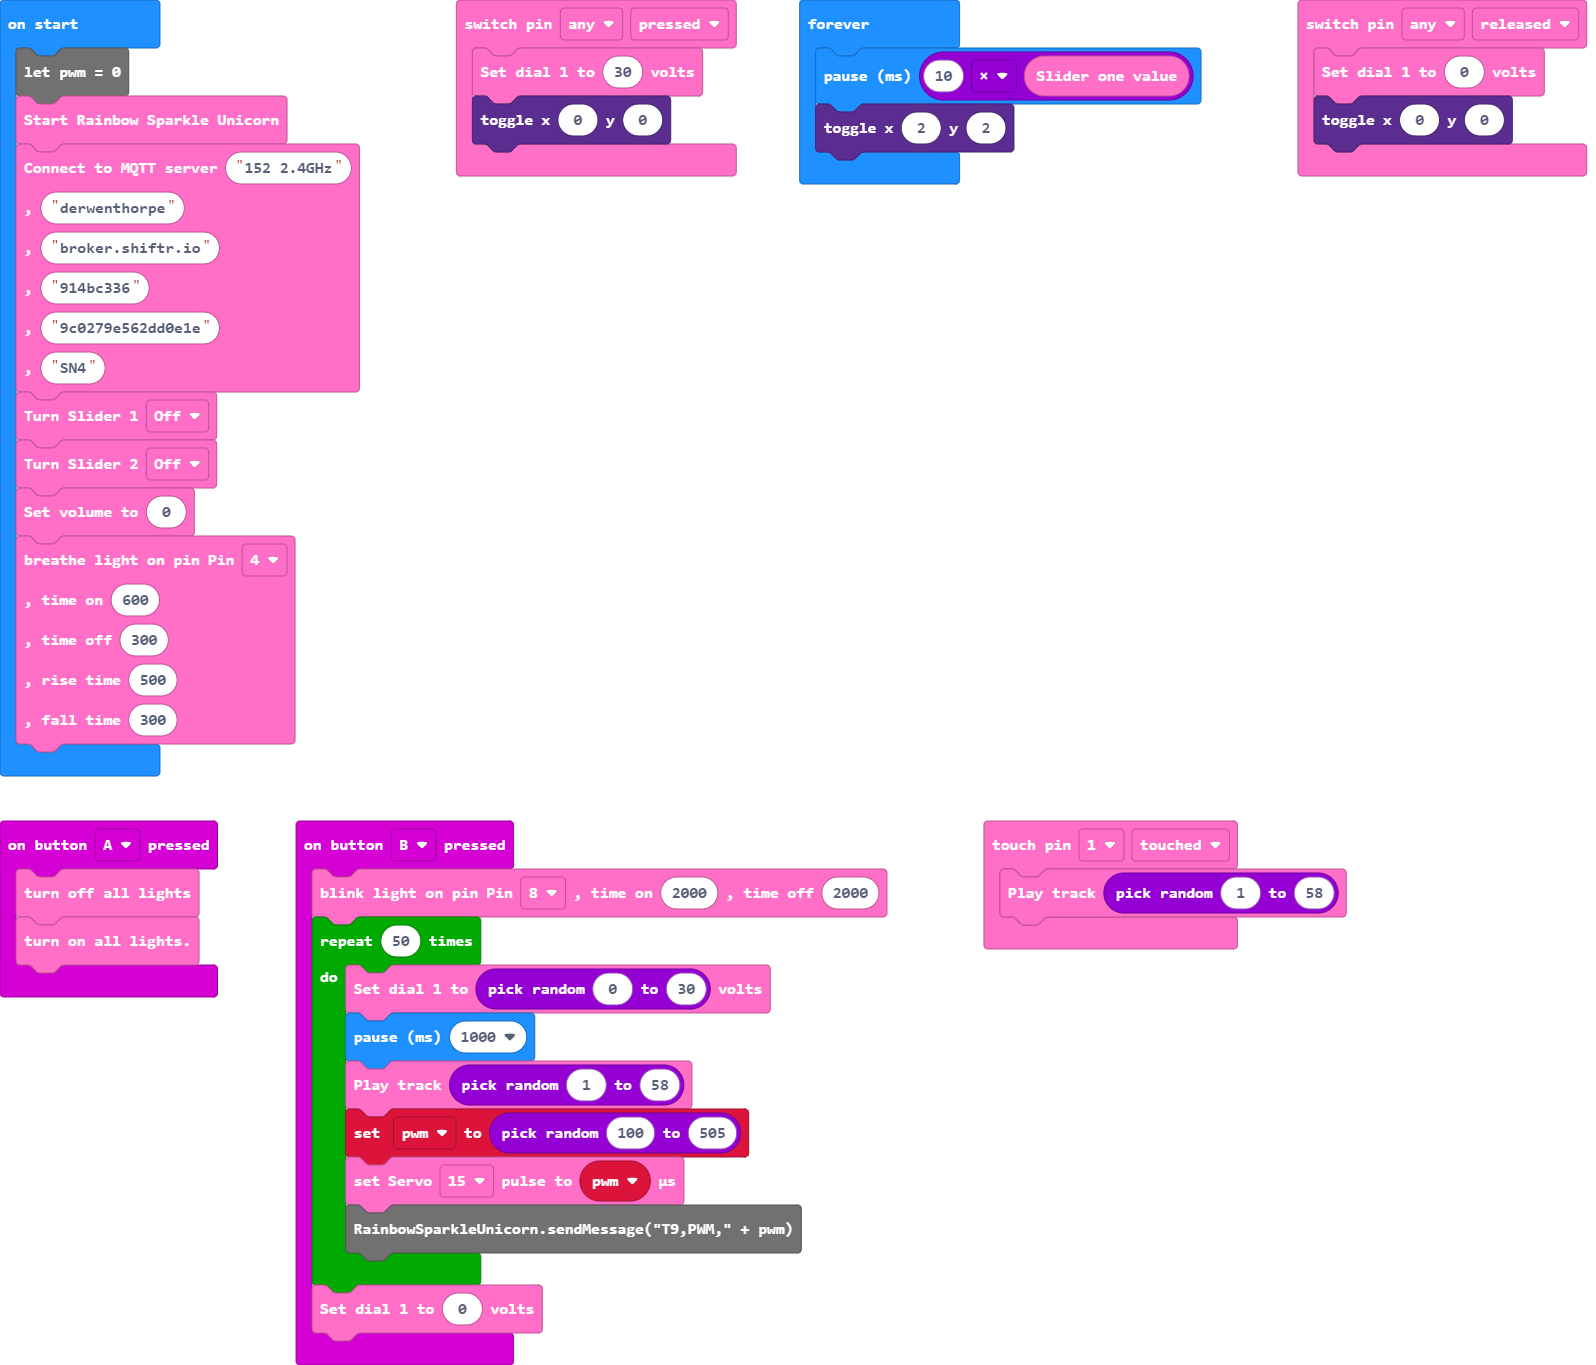
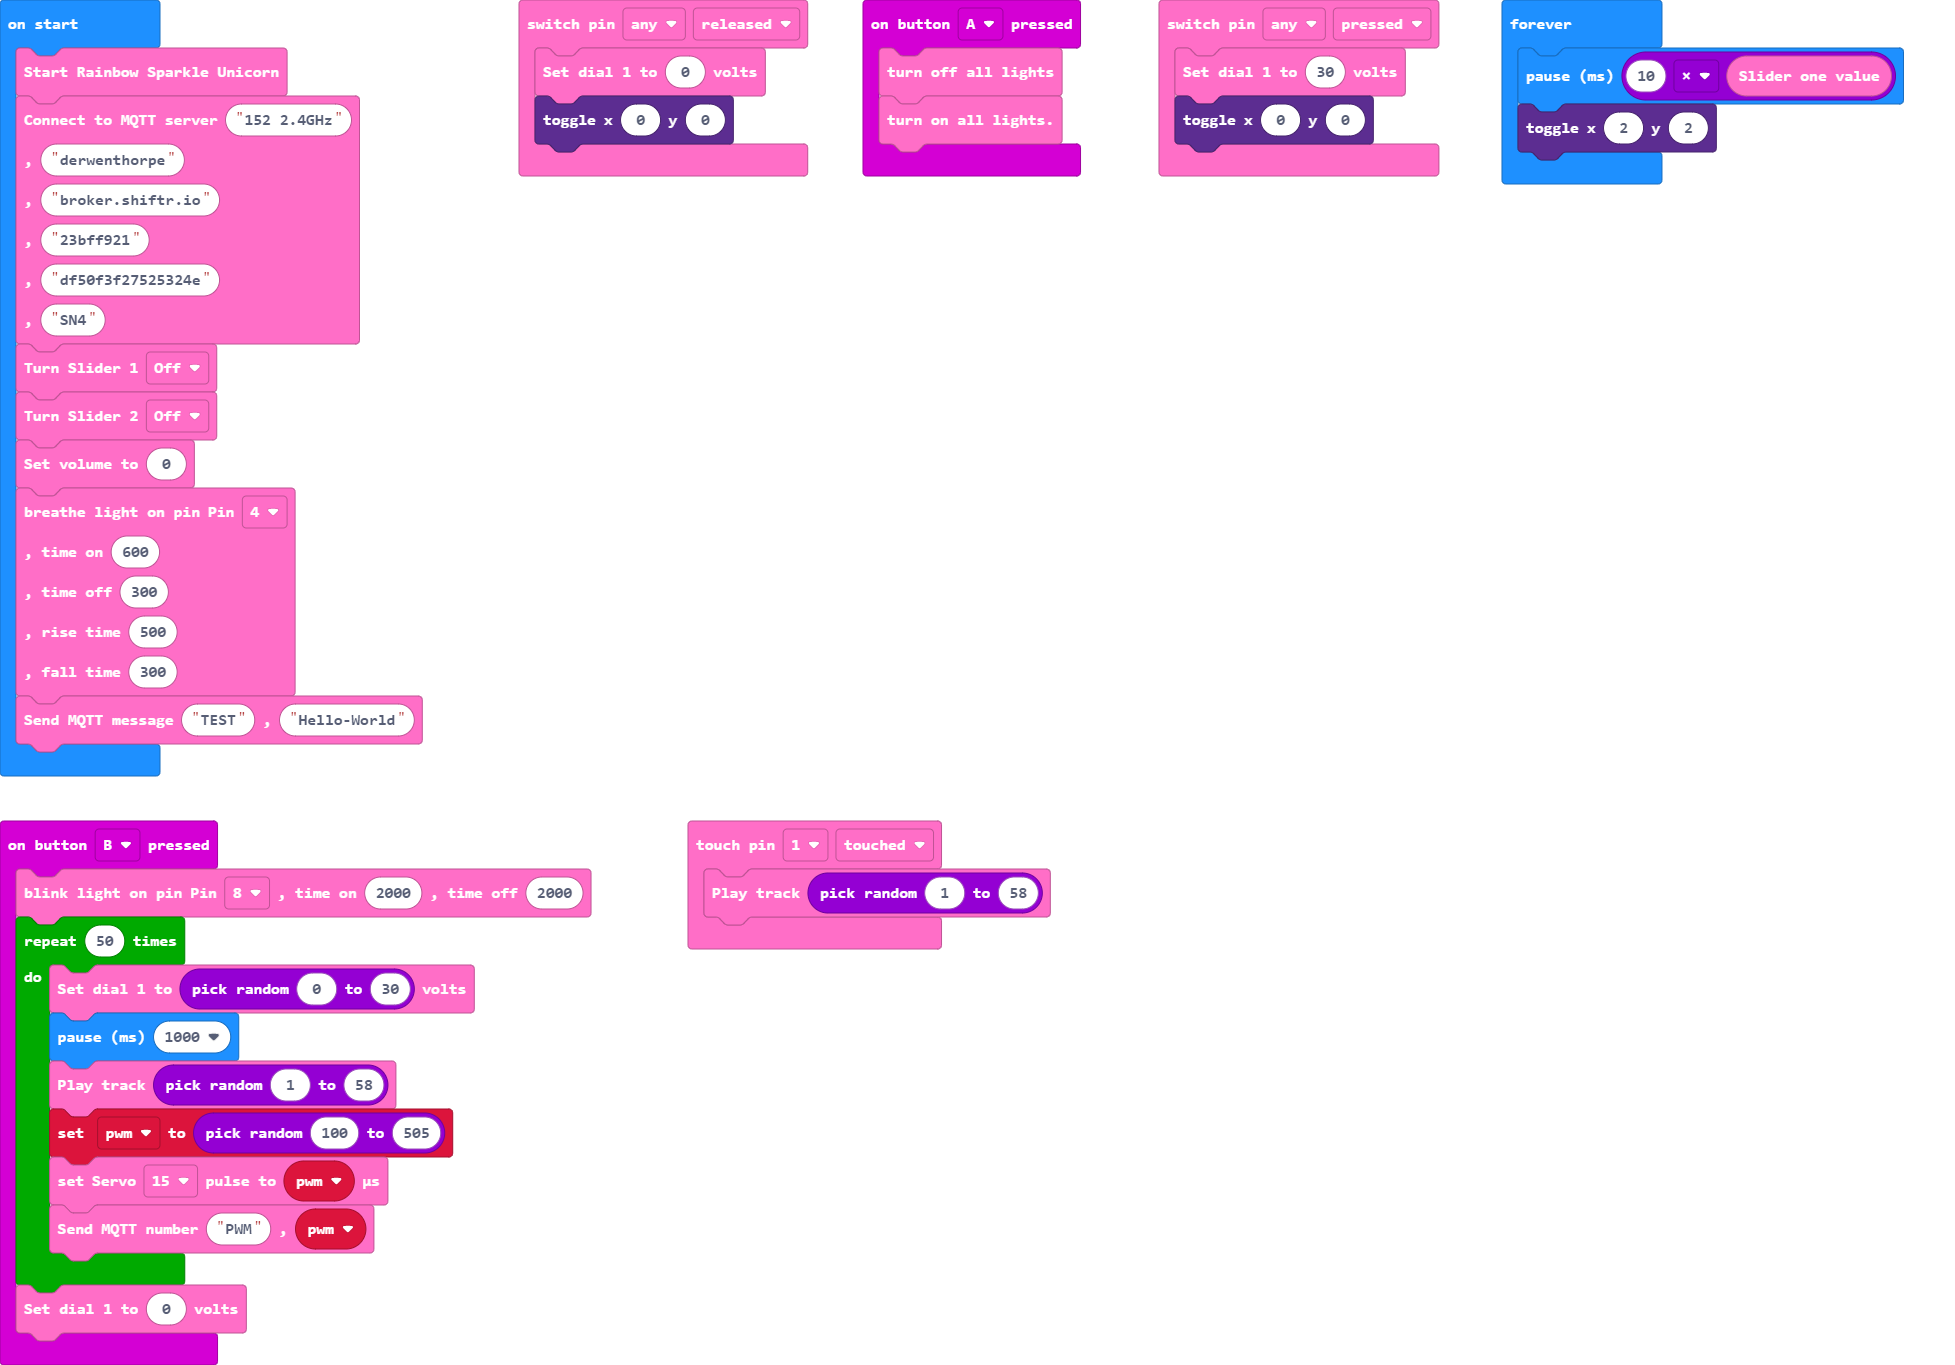
Update main.blocks, main.ts, sound.ts, ESP32.ts, constants.ts, UART.ts, MQTT.ts

Changed region(s): [[0.0, 0.0, 1.0, 1.0], [0.614, 0.5846, 0.8596, 0.7077]]

diff --git a/sound.ts b/sound.ts
@@ -1,4 +1,5 @@
 
+
 namespace RainbowSparkleUnicorn {
 
     /**
@@ -10,6 +11,7 @@ namespace RainbowSparkleUnicorn {
     //% volume.min=0 volume.max=30
     export function setVolume(volume: number) {
         const clippedVolume = Math.min(Math.max(volume, 0), 30);
+        dfplayerVolume = clippedVolume;
         sendMessage("Z1," + clippedVolume)
     }
 
@@ -22,6 +24,7 @@ namespace RainbowSparkleUnicorn {
     //% block="Play track $track"
     //% track.min=0 track.max=2999
     export function playTrack(track: number) {
+        dfplayerTrack = track;
         sendMessage("Z4," + track)
     }
 
@@ -31,6 +34,7 @@ namespace RainbowSparkleUnicorn {
     //% subcategory="Sound"      
     //% block="Increase volume"
     export function increaseVolume() {
+        dfplayerVolume = Math.min(Math.max(dfplayerVolume+1, 0), 30);
         sendMessage("Z2")
     }
 
@@ -40,6 +44,7 @@ namespace RainbowSparkleUnicorn {
     //% subcategory="Sound"      
     //% block="Decrease volume"
     export function decreaseVolume() {
+        dfplayerVolume = Math.min(Math.max(dfplayerVolume-1, 0), 30);
         sendMessage("Z3")
     }
 
@@ -68,8 +73,24 @@ namespace RainbowSparkleUnicorn {
         return dfplayerBusy;
     }
 
+     /**
+     * Returns the current volume
+     */
+    //% subcategory="Sound"
+    //% block="current volume"
+    export function volume(): number {
+        return dfplayerVolume;
+    }   
 
-  export let dfplayerBusy: boolean
+
+     /**
+     * Returns the current track
+     */
+    //% subcategory="Sound"
+    //% block="current track"
+    export function track(): number {
+        return dfplayerTrack;
+    }   
 
     /**
    * Do something when a sound track starts/stops.

diff --git a/UART.ts b/UART.ts
@@ -1,6 +1,6 @@
 namespace RainbowSparkleUnicorn {
 
-    export function sendMessage(message: string): void {
+   export function sendMessage(message: string): void {
         serial.writeLine(message);
      }
 
@@ -18,6 +18,13 @@ namespace RainbowSparkleUnicorn {
            
             control.raiseEvent(RAINBOW_SPARKLE_UNICORN_SOUND_BUSY, value)
         }
+        else if (message.indexOf("A2") == 0) {
+            dfplayerVolume = parseInt(message.split(",")[1]);
+        }  
+        else if (message.indexOf("A3") == 0) {
+            dfplayerTrack = parseInt(message.split(",")[1]);
+        }  
+
         else if (message.indexOf("B1") == 0) {
             const pin = parseInt(message.split(",")[1]);
 
@@ -82,8 +89,17 @@ namespace RainbowSparkleUnicorn {
             const pin = parseInt(message[1]);
 
             control.raiseEvent(RAINBOW_SPARKLE_UNICORN_MOTION_HALTED,pin);
-           
        }   
+      else if (message.indexOf("G1") == 0) {
+
+            IPAddress = message[1];
+
+            //https://gist.github.com/jppommet/5708697
+            const IPasNumber = IPAddress.split('.').reduce(function(ipInt, octet) { return (ipInt<<8) + parseInt(octet, 10)}, 0) >>> 0;
+
+            control.raiseEvent(RAINBOW_SPARKLE_UNICORN_IP,IPasNumber);           
+       }   
+
     }  catch(err) {   
      sendMessage(err.message);
     }   

diff --git a/MQTT.ts b/MQTT.ts
@@ -10,6 +10,7 @@ namespace RainbowSparkleUnicorn {
 
         //TODO: improve this!
         WiFiName = WiFiName.split(' ').join('PPP');
+        WiFiPassword = WiFiPassword.split(' ').join('PPP');        
 
         sendMessage("T1," + WiFiName);
         sendMessage("T2," + WiFiPassword);
@@ -22,7 +23,7 @@ namespace RainbowSparkleUnicorn {
         sendMessage("T8");
         basic.pause(1000);        
     }
-
+    
     //% subcategory="MQTT" 
     //% block="Send MQTT message $topic, $message"
     export function sendMQTTMessage(topic: string, message: string) {
@@ -33,5 +34,18 @@ namespace RainbowSparkleUnicorn {
 
         sendMessage("T9," + topic + "," + message);
     }
+
+    //% subcategory="MQTT" 
+    //% block="Send MQTT number $topic, $message"
+    export function sendMQTTNumber(topic: string, message: number) {
+
+        //TODO: improve this!
+        //topic = topic.split(' ').join('PPP');
+        //message = message.split(' ').join('PPP');
+
+        sendMessage("T9," + topic + "," + message);
+    }   
+
+
 
 }

diff --git a/main.ts b/main.ts
@@ -17,7 +17,7 @@ input.onButtonPressed(Button.B, function () {
         RainbowSparkleUnicorn.playTrack(randint(1, 58))
         pwm = randint(100, 505)
         RainbowSparkleUnicorn.setPulse(Servo.S15, pwm)
-        RainbowSparkleUnicorn.sendMessage("T9,PWM," + pwm)
+        RainbowSparkleUnicorn.sendMQTTNumber("PWM", pwm)
     }
     RainbowSparkleUnicorn.dial1(0)
 })
@@ -31,8 +31,8 @@ RainbowSparkleUnicorn.connectToInterWeb(
 "152 2.4GHz",
 "derwenthorpe",
 "broker.shiftr.io",
-"914bc336",
-"9c0279e562dd0e1e",
+"23bff921",
+"df50f3f27525324e",
 "SN4"
 )
 RainbowSparkleUnicorn.turnSlider1(OnOff.OFF)
@@ -45,6 +45,7 @@ Breathable.Breathable4,
 500,
 300
 )
+RainbowSparkleUnicorn.sendMQTTMessage("TEST", "Hello-World")
 basic.forever(function () {
     basic.pause(10 * RainbowSparkleUnicorn.Slider1())
     led.toggle(2, 2)

diff --git a/constants.ts b/constants.ts
@@ -11,3 +11,14 @@ let RAINBOW_SPARKLE_UNICORN_SWITCH_PRESSED = 2155
 let RAINBOW_SPARKLE_UNICORN_SWITCH_RELEASED = 2156
 let RAINBOW_SPARKLE_UNICORN_MOTION_STOPPED = 2157
 let RAINBOW_SPARKLE_UNICORN_MOTION_HALTED = 2158
+let RAINBOW_SPARKLE_UNICORN_IP = 2159
+
+
+let IPAddress:string = "0.0.0.0";
+
+let dfplayerBusy: boolean = false;
+let dfplayerVolume: number = 0;
+let dfplayerTrack: number = 0;
+
+let ADC1value = 0;
+let ADC2value = 0;

diff --git a/ESP32.ts b/ESP32.ts
@@ -4,8 +4,6 @@ let ADC1Enabled = false;
 let ADC2Enabled = false;
 let Encoder1Enabled = false;
 let Encoder2Enabled = false;
-export let ADC1value = 0;
-export let ADC2value = 0;
 let Encoder1value  = 0;
 let Encoder2value  = 0;
 
